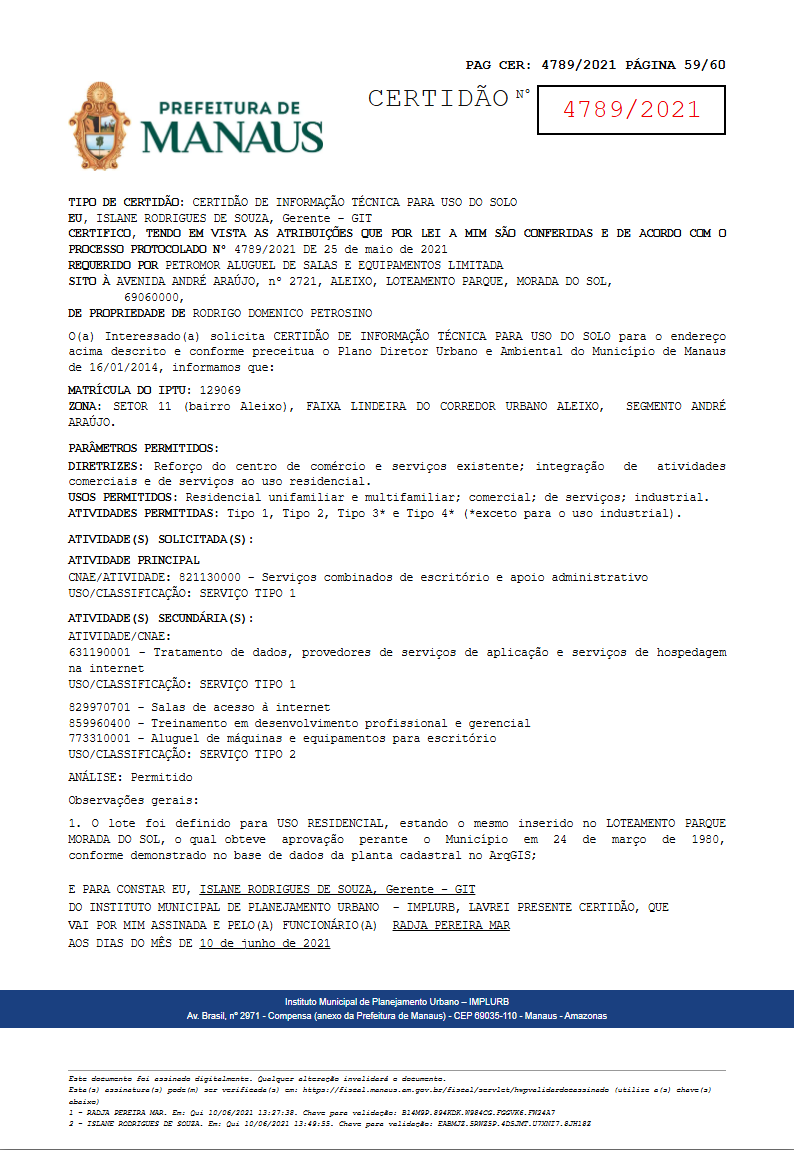
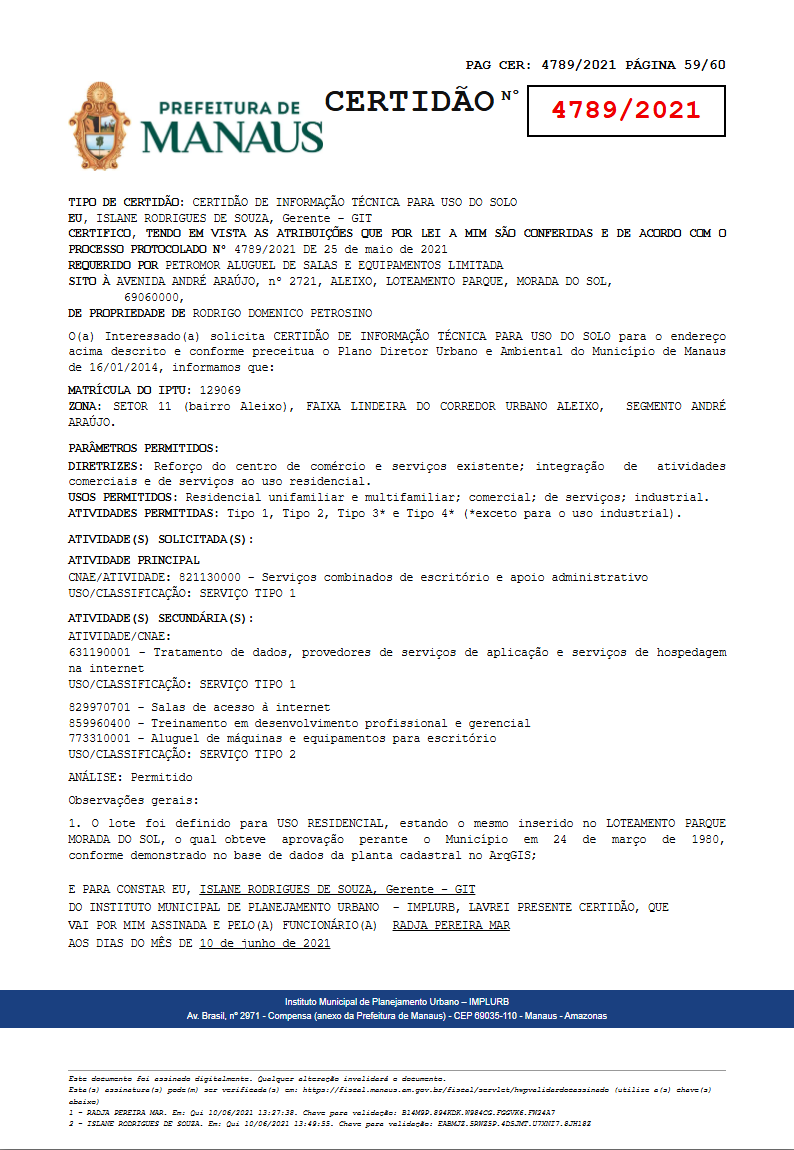
auto-sync: 2026-04-27 10:11

Changed region(s): [[0.4232, 0.0609, 0.665, 0.1217], [0.665, 0.0913, 0.9068, 0.1217]]

diff --git a/dados/certidao-template.html b/dados/certidao-template.html
@@ -54,8 +54,8 @@
 
   .certidao-title {
     font-family: "Courier New", Courier, monospace;
-    font-size: 28px;
-    font-weight: 400;
+    font-size: 34px;
+    font-weight: 700;
     letter-spacing: 1px;
     color: #111;
     line-height: 1;
@@ -63,8 +63,8 @@
 
   .certidao-sup {
     font-family: "Courier New", Courier, monospace;
-    font-size: 13px;
-    font-weight: 400;
+    font-size: 16px;
+    font-weight: 700;
     margin-top: 2px;
     color: #111;
   }
@@ -73,8 +73,8 @@
     background: transparent;
     color: #f00000;
     font-family: "Courier New", Courier, monospace;
-    font-size: 26px;
-    font-weight: 400;
+    font-size: 28px;
+    font-weight: 700;
     padding: 10px 22px;
     border: 2px solid #000;
     line-height: 1;

diff --git a/dados/build-html.py b/dados/build-html.py
@@ -59,8 +59,8 @@ html = """<!DOCTYPE html>
 
   .certidao-title {
     font-family: "Courier New", Courier, monospace;
-    font-size: 28px;
-    font-weight: 400;
+    font-size: 34px;
+    font-weight: 700;
     letter-spacing: 1px;
     color: #111;
     line-height: 1;
@@ -68,8 +68,8 @@ html = """<!DOCTYPE html>
 
   .certidao-sup {
     font-family: "Courier New", Courier, monospace;
-    font-size: 13px;
-    font-weight: 400;
+    font-size: 16px;
+    font-weight: 700;
     margin-top: 2px;
     color: #111;
   }
@@ -78,8 +78,8 @@ html = """<!DOCTYPE html>
     background: transparent;
     color: #f00000;
     font-family: "Courier New", Courier, monospace;
-    font-size: 26px;
-    font-weight: 400;
+    font-size: 28px;
+    font-weight: 700;
     padding: 10px 22px;
     border: 2px solid #000;
     line-height: 1;
